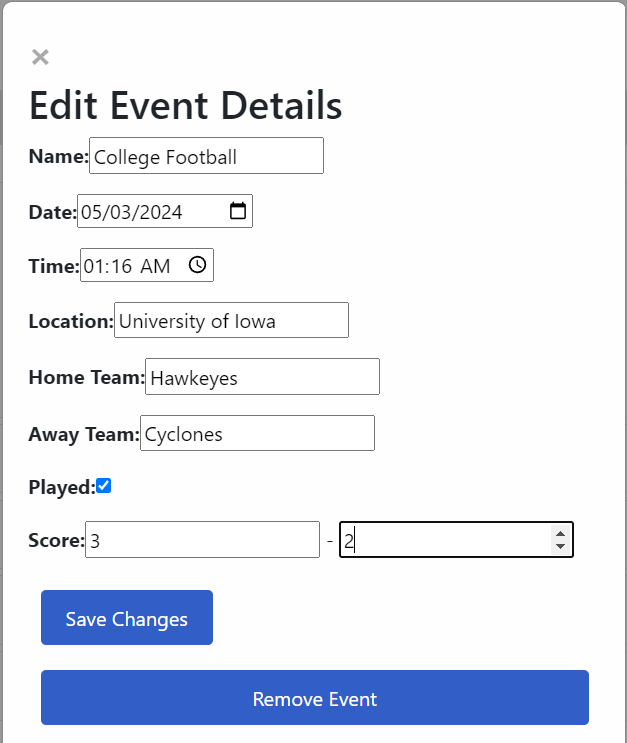
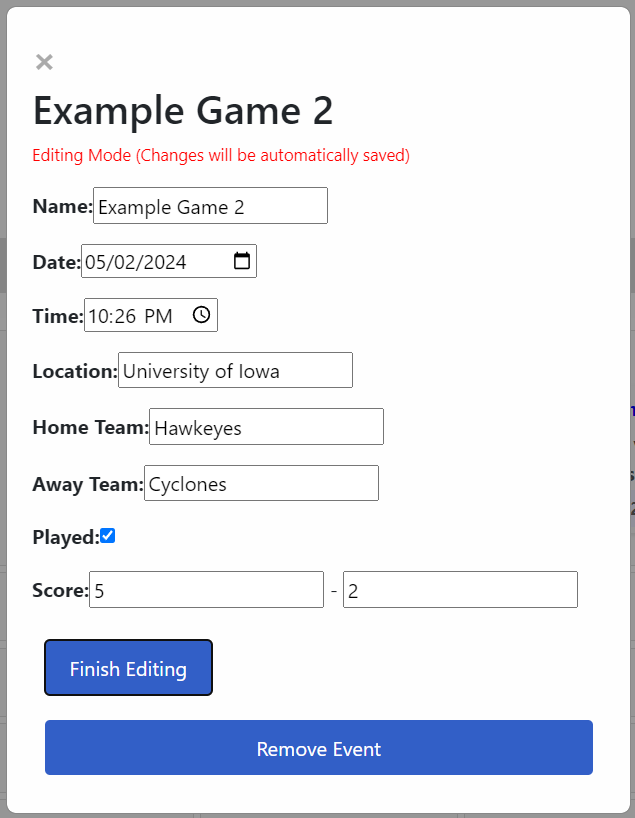
Final Game + Calendar update
Made final changes to the calendar

Changed region(s): [[0.0, 0.0, 1.0, 1.0], [0.5152, 0.681, 0.9394, 0.7739]]

diff --git a/angular/app/games/games.component.html b/angular/app/games/games.component.html
@@ -62,31 +62,31 @@
 <div *ngIf="showEventDetails" id="eventDescriptionPopup" class="modal">
     <div class="modal-content">
         <span class="close" (click)="closeEventDetails()">&times;</span>
-        <form #updateEventForm="ngForm" (ngSubmit)="updateEvent(updateEventForm.value)">
-            <h2>Edit Event Details</h2>
+        <form #updateEventForm="ngForm" (ngSubmit)="updateEvent()">
+            <!-- Dynamic modal header using the name of the game -->
+            <h2>{{ selectedEvent.name }}</h2>
+            <!-- Editing mode indicator -->
+            <div *ngIf="editMode" class="edit-indicator">
+                <p style="color: red; font-size: smaller;">Editing Mode (Changes will be automatically saved)</p>
+            </div>
+            <!-- Form fields -->
             <p><strong>Name:</strong> 
-                <input type="text" [(ngModel)]="selectedEvent.name" name="eventName" [readonly]="!editStates['name']" required>
-                <button type="button" (click)="toggleEdit('name')">Edit</button>
+                <input type="text" [(ngModel)]="selectedEvent.name" name="eventName" [readonly]="!editMode" required>
             </p>
             <p><strong>Date:</strong> 
-                <input type="date" [(ngModel)]="selectedEvent.date" name="eventDate" [readonly]="!editStates['date']" required>
-                <button type="button" (click)="toggleEdit('date')">Edit</button>
+                <input type="date" [(ngModel)]="selectedEvent.date" name="eventDate" [readonly]="!editMode" required>
             </p>
             <p><strong>Time:</strong> 
-                <input type="time" [(ngModel)]="selectedEvent.time" name="eventTime" [readonly]="!editStates['time']" required>
-                <button type="button" (click)="toggleEdit('time')">Edit</button>
+                <input type="time" [(ngModel)]="selectedEvent.time" name="eventTime" [readonly]="!editMode" required>
             </p>
             <p><strong>Location:</strong> 
-                <input type="text" [(ngModel)]="selectedEvent.location" name="eventLocation" [readonly]="!editStates['location']" required>
-                <button type="button" (click)="toggleEdit('location')">Edit</button>
+                <input type="text" [(ngModel)]="selectedEvent.location" name="eventLocation" [readonly]="!editMode" required>
             </p>
             <p><strong>Home Team:</strong> 
-                <input type="text" [(ngModel)]="selectedEvent.home_team" name="homeTeam" [readonly]="!editStates['home_team']" required>
-                <button type="button" (click)="toggleEdit('home_team')">Edit</button>
+                <input type="text" [(ngModel)]="selectedEvent.home_team" name="homeTeam" [readonly]="!editMode" required>
             </p>
             <p><strong>Away Team:</strong> 
-                <input type="text" [(ngModel)]="selectedEvent.away_team" name="awayTeam" [readonly]="!editStates['away_team']" required>
-                <button type="button" (click)="toggleEdit('away_team')">Edit</button>
+                <input type="text" [(ngModel)]="selectedEvent.away_team" name="awayTeam" [readonly]="!editMode" required>
             </p>
             <p>
                 <strong>Played:</strong>
@@ -94,11 +94,11 @@
             </p>
             <div *ngIf="selectedEvent.played">
                 <p><strong>Score:</strong>
-                    <input type="number" [(ngModel)]="selectedEvent.home_team_score" name="homeScore" [readonly]="!editStates['score']" required> - 
-                    <input type="number" [(ngModel)]="selectedEvent.away_team_score" name="awayScore" [readonly]="!editStates['score']" required>
+                    <input type="number" [(ngModel)]="selectedEvent.home_team_score" name="homeScore" [readonly]="!editMode" required> - 
+                    <input type="number" [(ngModel)]="selectedEvent.away_team_score" name="awayScore" [readonly]="!editMode" required>
                 </p>
-                <button type="button" (click)="toggleEdit('score')">Edit Score</button>
             </div>
+            <button type="button" (click)="toggleEdit()">{{ editMode ? 'Finish Editing' : 'Edit' }}</button>
         </form>
         <button (click)="removeEvent(selectedEvent)">Remove Event</button>
     </div>

diff --git a/angular/app/games/games.component.ts b/angular/app/games/games.component.ts
@@ -1,4 +1,4 @@
-import { Component, OnInit, ChangeDetectorRef } from '@angular/core';
+import { Component, OnInit, ChangeDetectorRef, ViewChild  } from '@angular/core';
 import { GamesService } from './games.service';
 import { Game } from './game.model';
 import { NgForm } from '@angular/forms';
@@ -12,6 +12,8 @@ import { NgForm } from '@angular/forms';
 export class GamesComponent implements OnInit {
   currentMonth: string = "";
   days: any[] = [];
+  @ViewChild('updateEventForm') updateEventForm!: NgForm;
+  editMode: boolean = false;
   showEventForm: boolean = false;
   showEventDetails: boolean = false;
   showAddEventModal: boolean = false;
@@ -76,10 +78,11 @@ export class GamesComponent implements OnInit {
       this.selectedEvent.away_team_score = 0
     }
   }
-
-  toggleEdit(field: string): void {
-    this.editStates[field] = !this.editStates[field];
+  
+  toggleEdit(): void {
+    this.editMode = !this.editMode;
   }
+
 
   changeMonth(offset: number) {
     const current = new Date(this.currentMonth + " 1");
@@ -163,31 +166,34 @@ export class GamesComponent implements OnInit {
   }
   
 
-  updateEvent(form: any) {
-    if (!this.selectedEvent || !this.selectedEvent._id) return;
+  updateEvent() {
+    if (this.editMode && this.updateEventForm.valid && this.selectedEvent._id) { // Check that _id is not undefined
+      const updatedGame: Game = {
+        _id: this.selectedEvent._id,
+        name: this.selectedEvent.name,
+        location: this.selectedEvent.location,
+        home_team: this.selectedEvent.home_team,
+        away_team: this.selectedEvent.away_team,
+        date: this.selectedEvent.date,
+        time: this.selectedEvent.time,
+        played: this.selectedEvent.played,
+        home_team_score: this.selectedEvent.home_team_score,
+        away_team_score: this.selectedEvent.away_team_score
+      };
   
-    const updatedGame: Game = {
-      _id: this.selectedEvent._id,
-      name: form.eventName,
-      location: form.eventLocation,
-      home_team: form.homeTeam,
-      away_team: form.awayTeam,
-      date: form.eventDate,
-      time: form.eventTime,
-      played: form.played,
-      home_team_score: form.played ? form.homeScore : null,
-      away_team_score: form.played ? form.awayScore : null
-    };
-  
-    this.gamesService.updateGame(this.selectedEvent._id, updatedGame).subscribe({
-      next: () => {
-        this.fetchEvents(); // Refresh events on successful update
-        this.closeEventDetails(); // Close details view on success
-      },
-      error: (err) => {
-        console.error('Error updating game:', err);
-        this.closeEventDetails(); // Close details view on error
-      }
-    });
+      this.gamesService.updateGame(this.selectedEvent._id, updatedGame).subscribe({
+        next: () => {
+          this.fetchEvents(); // Refresh events on successful update
+          this.closeEventDetails(); // Close details view on success
+          this.toggleEdit(); // Turn off edit mode after updating
+        },
+        error: (err) => {
+          console.error('Error updating game:', err);
+          this.closeEventDetails(); // Close details view on error
+        }
+      });
+    } else {
+      console.error('Attempted to update with undefined ID or invalid form');
+    }
   }
 }  
